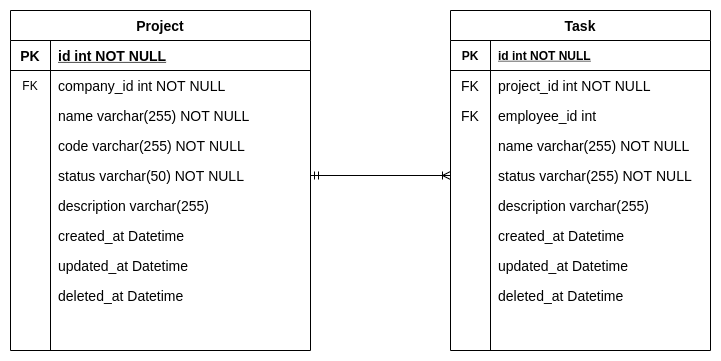
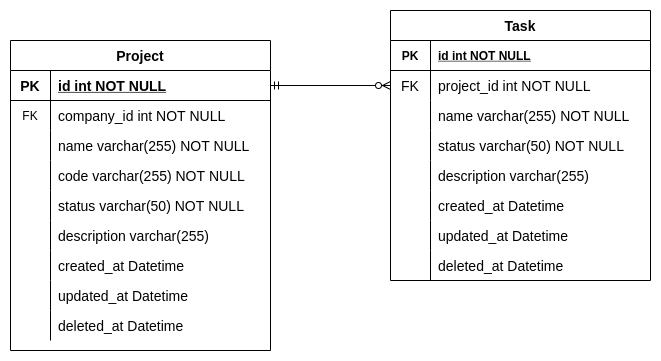
Finalize Instruction

diff --git a/README.md b/README.md
@@ -5,8 +5,14 @@ In this service, you will develop a backend server side functions that handle th
 resources.This service will contain 2 sub-services which are the Rest and gRPC service.
 Rest service will handle the http requests while gRPC will handle the rpc request to the API resources.
 
-The project and task ERD can be referred below: \
+**The project and task ERD can be referred below:** \
 ![project-task ERD](./asset/project-task.png)
+
+**The relationship between project, company and employee can be referred below:** \
+![project-company-employee ERD](./asset/project-company-employee.png)
+
+**The relationship between task and employee can be referred below:** \
+![task-employee ERD](./asset/task-employee.png)
 
 ## API Output
 ### Project API Output
@@ -19,6 +25,7 @@ The project and task ERD can be referred below: \
             "name": "string",
             "code": "string",
             "status": "string",
+            "total_task": 0, // calculate the total number of tasks
             "description": "string",
             "created_at": "string",
             "updated_at": "string"
@@ -40,6 +47,7 @@ The project and task ERD can be referred below: \
             "name": "string",
             "code": "string",
             "status": "string",
+            "total_task": 0, // calculate the total number of tasks
             "description": "string",
             "created_at": "string",
             "updated_at": "string"
@@ -62,6 +70,7 @@ The project and task ERD can be referred below: \
             "name": "string",
             "code": "string",
             "status": "string",
+            "total_task": 0, // calculate the total number of tasks
             "description": "string",
             "created_at": "string",
             "updated_at": "string"
@@ -69,7 +78,7 @@ The project and task ERD can be referred below: \
 #### Delete a project by ID.
     - URL: [DELETE] {project_url}/go/project/{id}
     - Status: 200
-#### list project by company id, page, limit, status and filter by "name", "code".
+#### List project by company id, page, limit, status and filter by "name", "code".
     - URL: [GET] {project_url}/go/company/{company_id}/projects
     - Query: ?page=0&limit=0&status=string&search_value=string&search_fields=name,code
     - Response:
@@ -93,13 +102,43 @@ The project and task ERD can be referred below: \
             "limit": 0,
         }
 #### Assign an employee to a project.
-    - URL: [POST] {project_url}/go/project/{project_id}/assign/{employee_id}
+    - URL: [POST] {project_url}/go/project-assign
+    - Payload:
+        {
+            "project_id": "string",
+            "employee_id": "string",
+        }
     - Status: 200
     - Assign Condition: project must has status of "active"
-#### Dismiss an employee to a project.
-    - URL: [DELETE] {project_url}/go/project/{project_id}/dismiss/{employee_id}
+#### Dismiss an employee from a project.
+    - URL: [POST] {project_url}/go/project-dismiss
+    - Payload:
+        {
+            "project_id": "string",
+            "employee_id": "string",
+        }
     - Status: 200
     - Dismiss Condition: employee must not have any "active" task in project
+#### List employee by a specific project id
+    - URL: [GET] {project_url}/go/project-employees/{project_id}
+    - Response:
+        {
+            "items": [
+                {
+                    "id": "string",
+                    "company_id": "string",
+                    "name": "string",
+                    "email": "string",
+                    "dob": "string",
+                    "gender": "string",
+                    "role": "string",
+                    "created_at": "string",
+                    "updated_at": "string"
+                },
+                ...
+            ]
+            "total_count": 0,
+        }
 
 
 ### Task API Output
@@ -121,7 +160,7 @@ The project and task ERD can be referred below: \
         {
             "project_id": "string",
             "name": "string",
-            "status": "string", allowed values: "to_do", "doing", "done"
+            "status": "string", // allowed values: "to_do", "doing", "done"
             "description": "string",
         }
     - Response:
@@ -141,7 +180,7 @@ The project and task ERD can be referred below: \
             "id": "string",
             "project_id": "string",
             "name": "string",
-            "status": "string", allowed values: "to_do", "doing", "done"
+            "status": "string", // allowed values: "to_do", "doing", "done"
             "description": "string",
         }
     - Response:
@@ -157,7 +196,7 @@ The project and task ERD can be referred below: \
 #### Delete a task by ID.
     - URL: [DELETE] {project_url}/go/task/{id}
     - Status: 200
-#### list task by project id, page, limit, status and filter by "name".
+#### List task by project id, page, limit, status and filter by "name".
     - URL: [GET] {project_url}/go/project/{project_id}/tasks
     - Query: ?page=0&limit=0&status=string&search_value=string&search_fields=name
     - Response:
@@ -179,4 +218,42 @@ The project and task ERD can be referred below: \
             "page": 0,
             "limit": 0,
         }
+#### Assign a task to an employee.
+    - URL: [POST] {project_url}/go/task-assign
+    - Payload:
+        {
+            "task_id": "string",
+            "employee_id": "string",
+        }
+    - Status: 200
+    - Assign Condition: task must has status of "to_do" and employee must be assigned to the task project
+#### Un-assign a task from an employee.
+    - URL: [POST] {project_url}/go/task-unassign
+    - Payload:
+        {
+            "task_id": "string",
+            "employee_id": "string",
+        }
+    - Status: 200
+    - Unassign Condition: Task must not have a status of "doing"
+#### List task by a specific employee id and task status
+    - URL: [GET] {project_url}/go/employee-tasks/{employee_id}
+    - Query: ?task_status=string
+    - Response:
+        {
+            "items": [
+                {
+                    "id": "string",
+                    "project_id": "string",
+                    "name": "string",
+                    "status": "string",
+                    "description": "string",
+                    "created_at": "string",
+                    "updated_at": "string"
+                },
+                ...
+            ]
+            "total_count": 0,
+        }
+
 > NOTE: DO NOT commit changes directly into the master branch.
